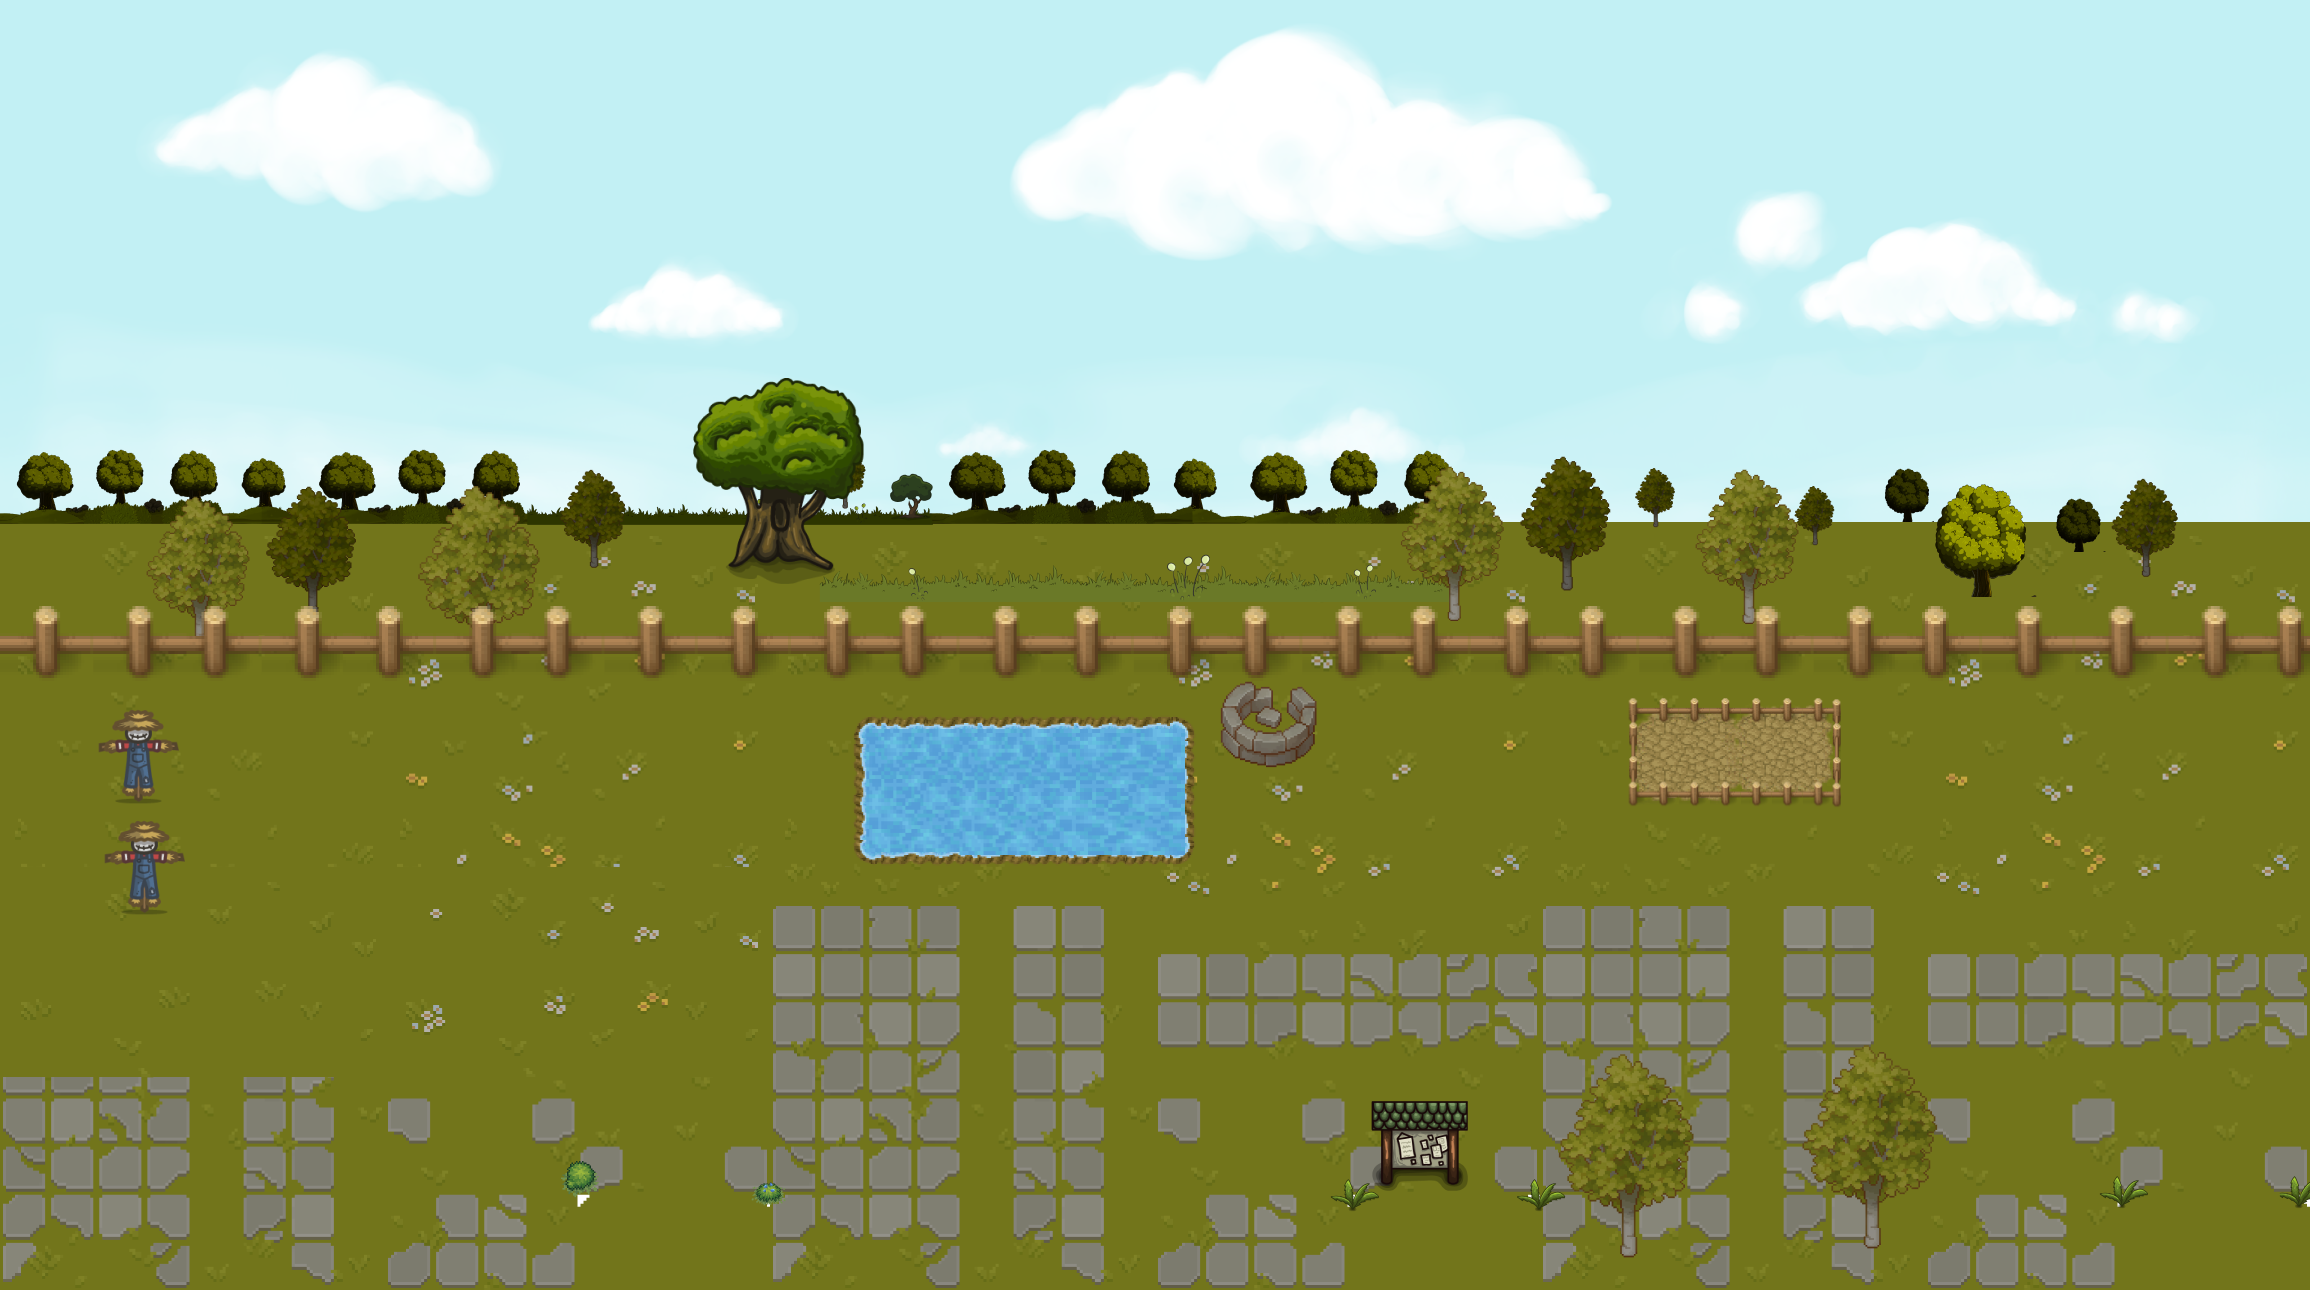
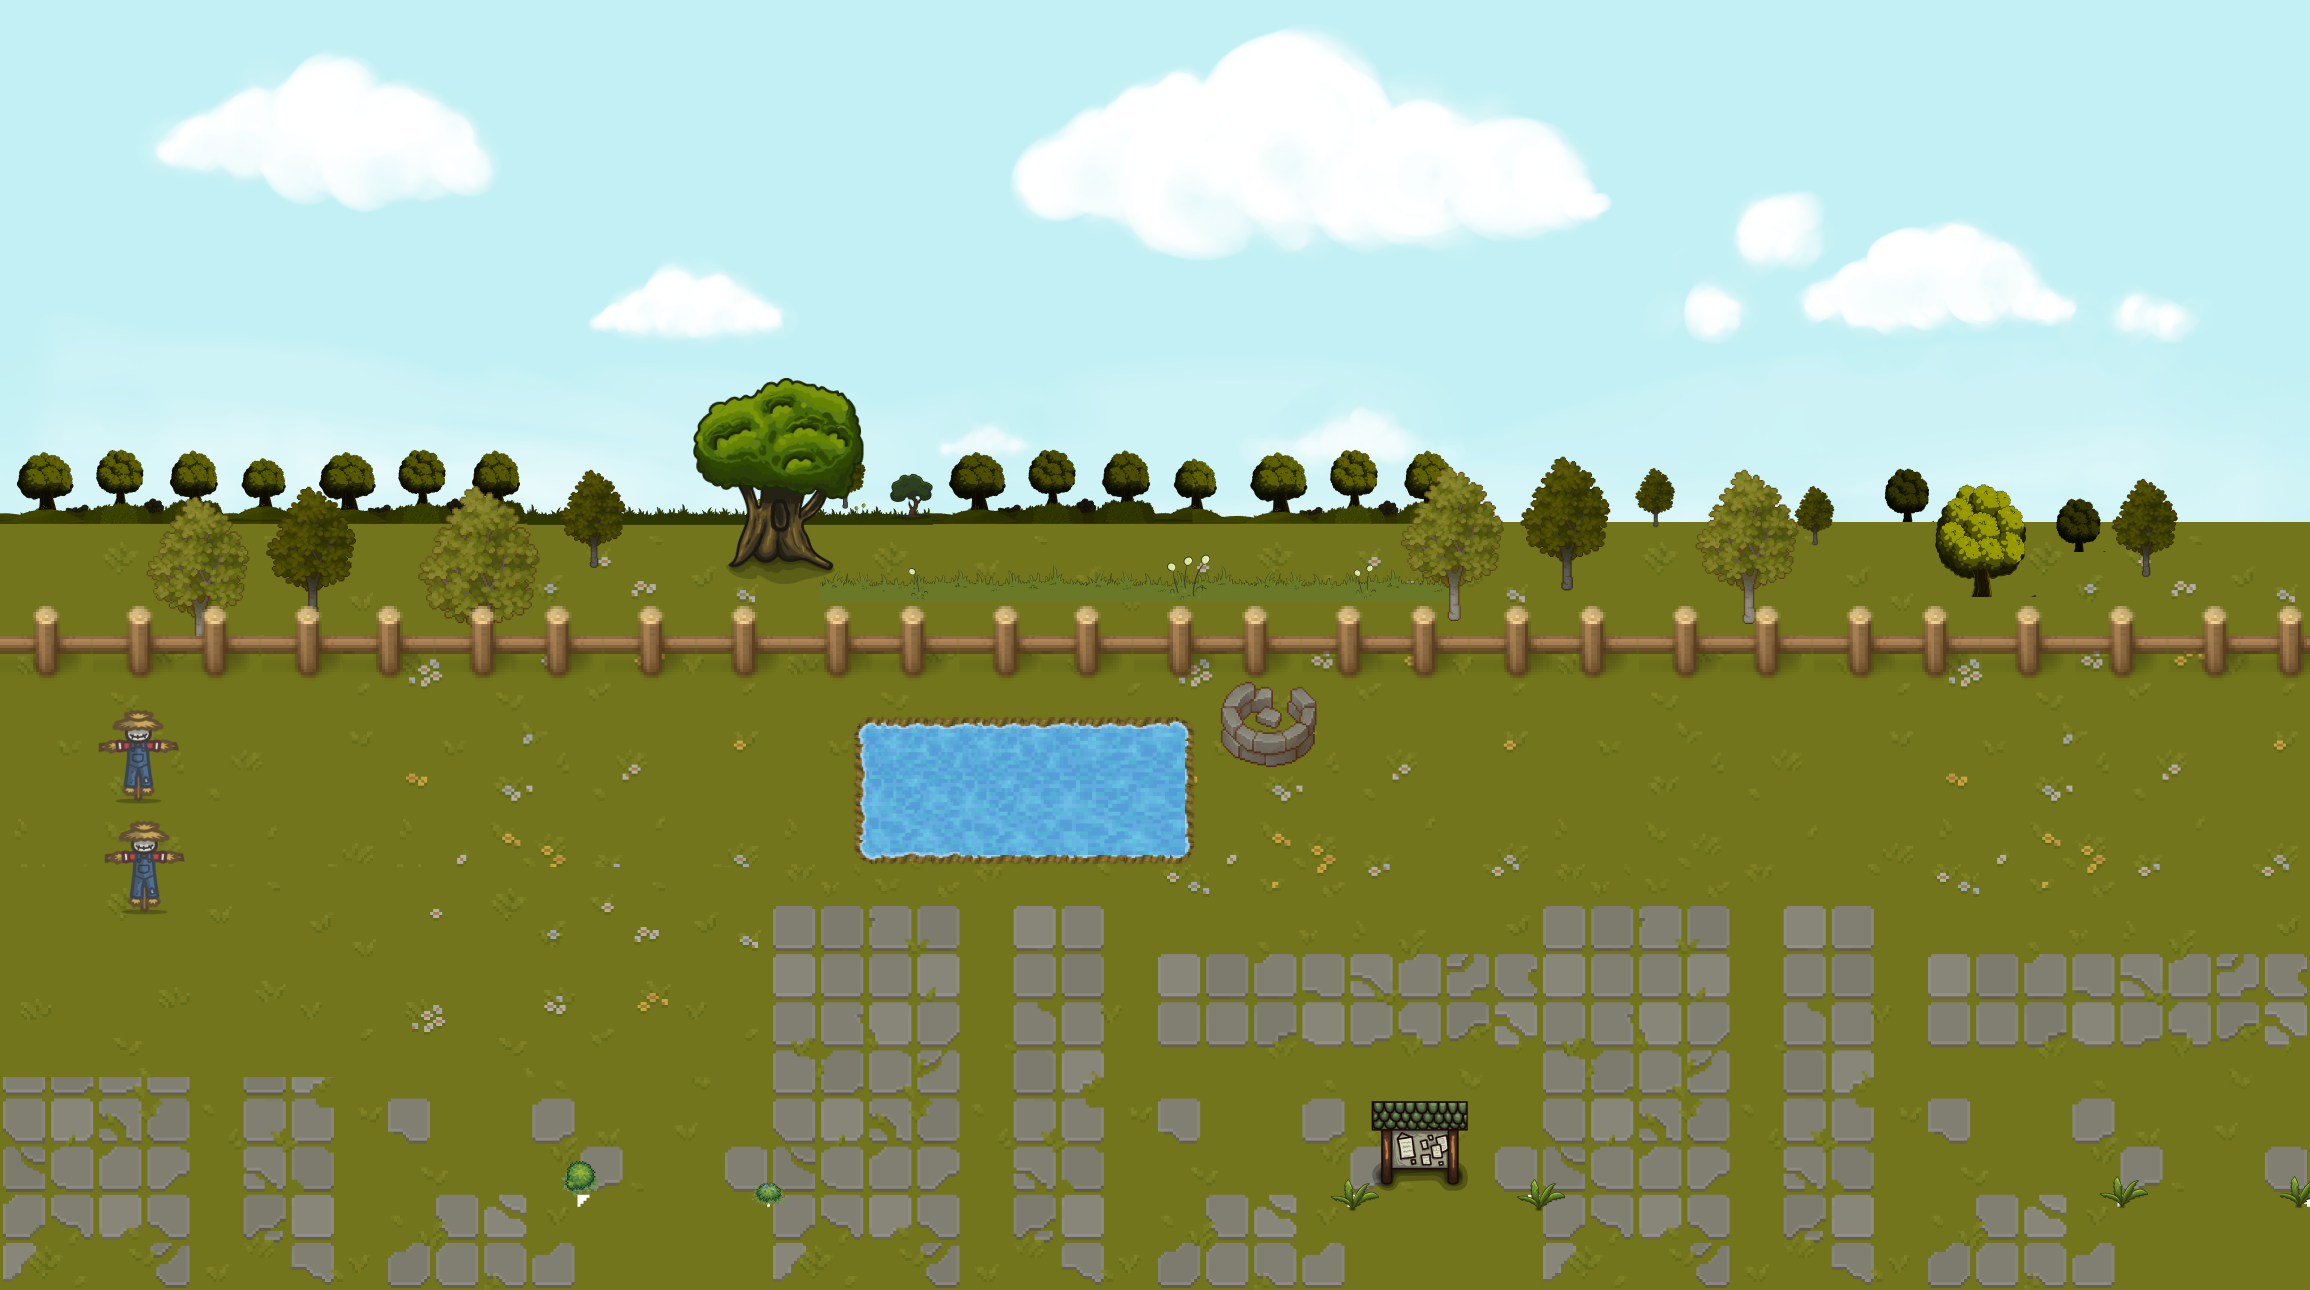
[UI]: create ui

Changed region(s): [[0.6857, 0.5271, 0.8104, 0.6202], [0.6545, 0.8062, 0.7481, 0.9612], [0.7792, 0.8062, 0.8416, 0.9302]]

diff --git a/src/game/scenes/Farm/Farm.js b/src/game/scenes/Farm/Farm.js
@@ -79,7 +79,38 @@ export class Farm extends Scene {
 		this.factoryAccess.setIndex(coconut_2, 1);
 		this.factoryAccess.setSize(coconut_2, 110, 170);
 		this.factoryAccess.setStatic(coconut_2);
+
+		//TX
+
+		const tx1 = this.factoryAccess.createHouse(1300, 925, ACCESS_RESOURCE.TX);
+		this.factoryAccess.setIndex(tx1, 1);
+		this.factoryAccess.setSize(tx1, 100, 160);
+		this.factoryAccess.setStatic(tx1);
+
+		const tx2 = this.factoryAccess.createHouse(1490, 925, ACCESS_RESOURCE.TX);
+		this.factoryAccess.setIndex(tx2, 1);
+		this.factoryAccess.setSize(tx2, 100, 160);
+		this.factoryAccess.setStatic(tx2);
+
+		const news = this.factoryAccess.createHouse(
+			1120,
+			900,
+			ACCESS_RESOURCE.NEWS
+		);
+		this.factoryAccess.setIndex(news, 1);
+		this.factoryAccess.setSize(news, 80, 74);
+		this.factoryAccess.setStatic(news);
+
+		const cowBox = this.factoryAccess.createHouse(
+			1400,
+			600,
+			ACCESS_RESOURCE.COW_BOX
+		);
+		this.factoryAccess.setIndex(cowBox, 1);
+		this.factoryAccess.setSize(cowBox, 190, 90);
+		this.factoryAccess.setStatic(cowBox);
 	}
+
 	create() {
 		const farmerSprite = this.farmerAssets.create(500, 800);
 		this.farmer = new FarmerAction(this, farmerSprite);
@@ -88,8 +119,6 @@ export class Farm extends Scene {
 		this.createWareHouse();
 		this.createPool();
 		this.createPlants();
-
-		// // Set the ob
 	}
 
 	update() {}

diff --git a/src/game/components/factoryAssets/factoryAssets.js b/src/game/components/factoryAssets/factoryAssets.js
@@ -12,6 +12,8 @@ export class factoryAssets {
 		this.scene.load.image(ACCESS_RESOURCE.COCONUT_1, "plant/coconut_1.png"); // Adjust the path
 		this.scene.load.image(ACCESS_RESOURCE.COCONUT_2, "plant/coconut_2.png"); // Adjust the path
 		this.scene.load.image(ACCESS_RESOURCE.TX, "plant/tx_plant.png"); // Adjust the path
+		this.scene.load.image(ACCESS_RESOURCE.NEWS, "news.png");
+		this.scene.load.image(ACCESS_RESOURCE.COW_BOX, "cow_box.png");
 	}
 
 	createHouse(x = 500, y = 600, frameName) {

diff --git a/src/constants/house.js b/src/constants/house.js
@@ -4,4 +4,6 @@ export const ACCESS_RESOURCE = {
 	COCONUT_1: "COCONUT_1",
 	COCONUT_2: "COCONUT_2",
 	TX: "TX",
+	NEWS: "NEWS",
+	COW_BOX: "COW_BOX",
 };
